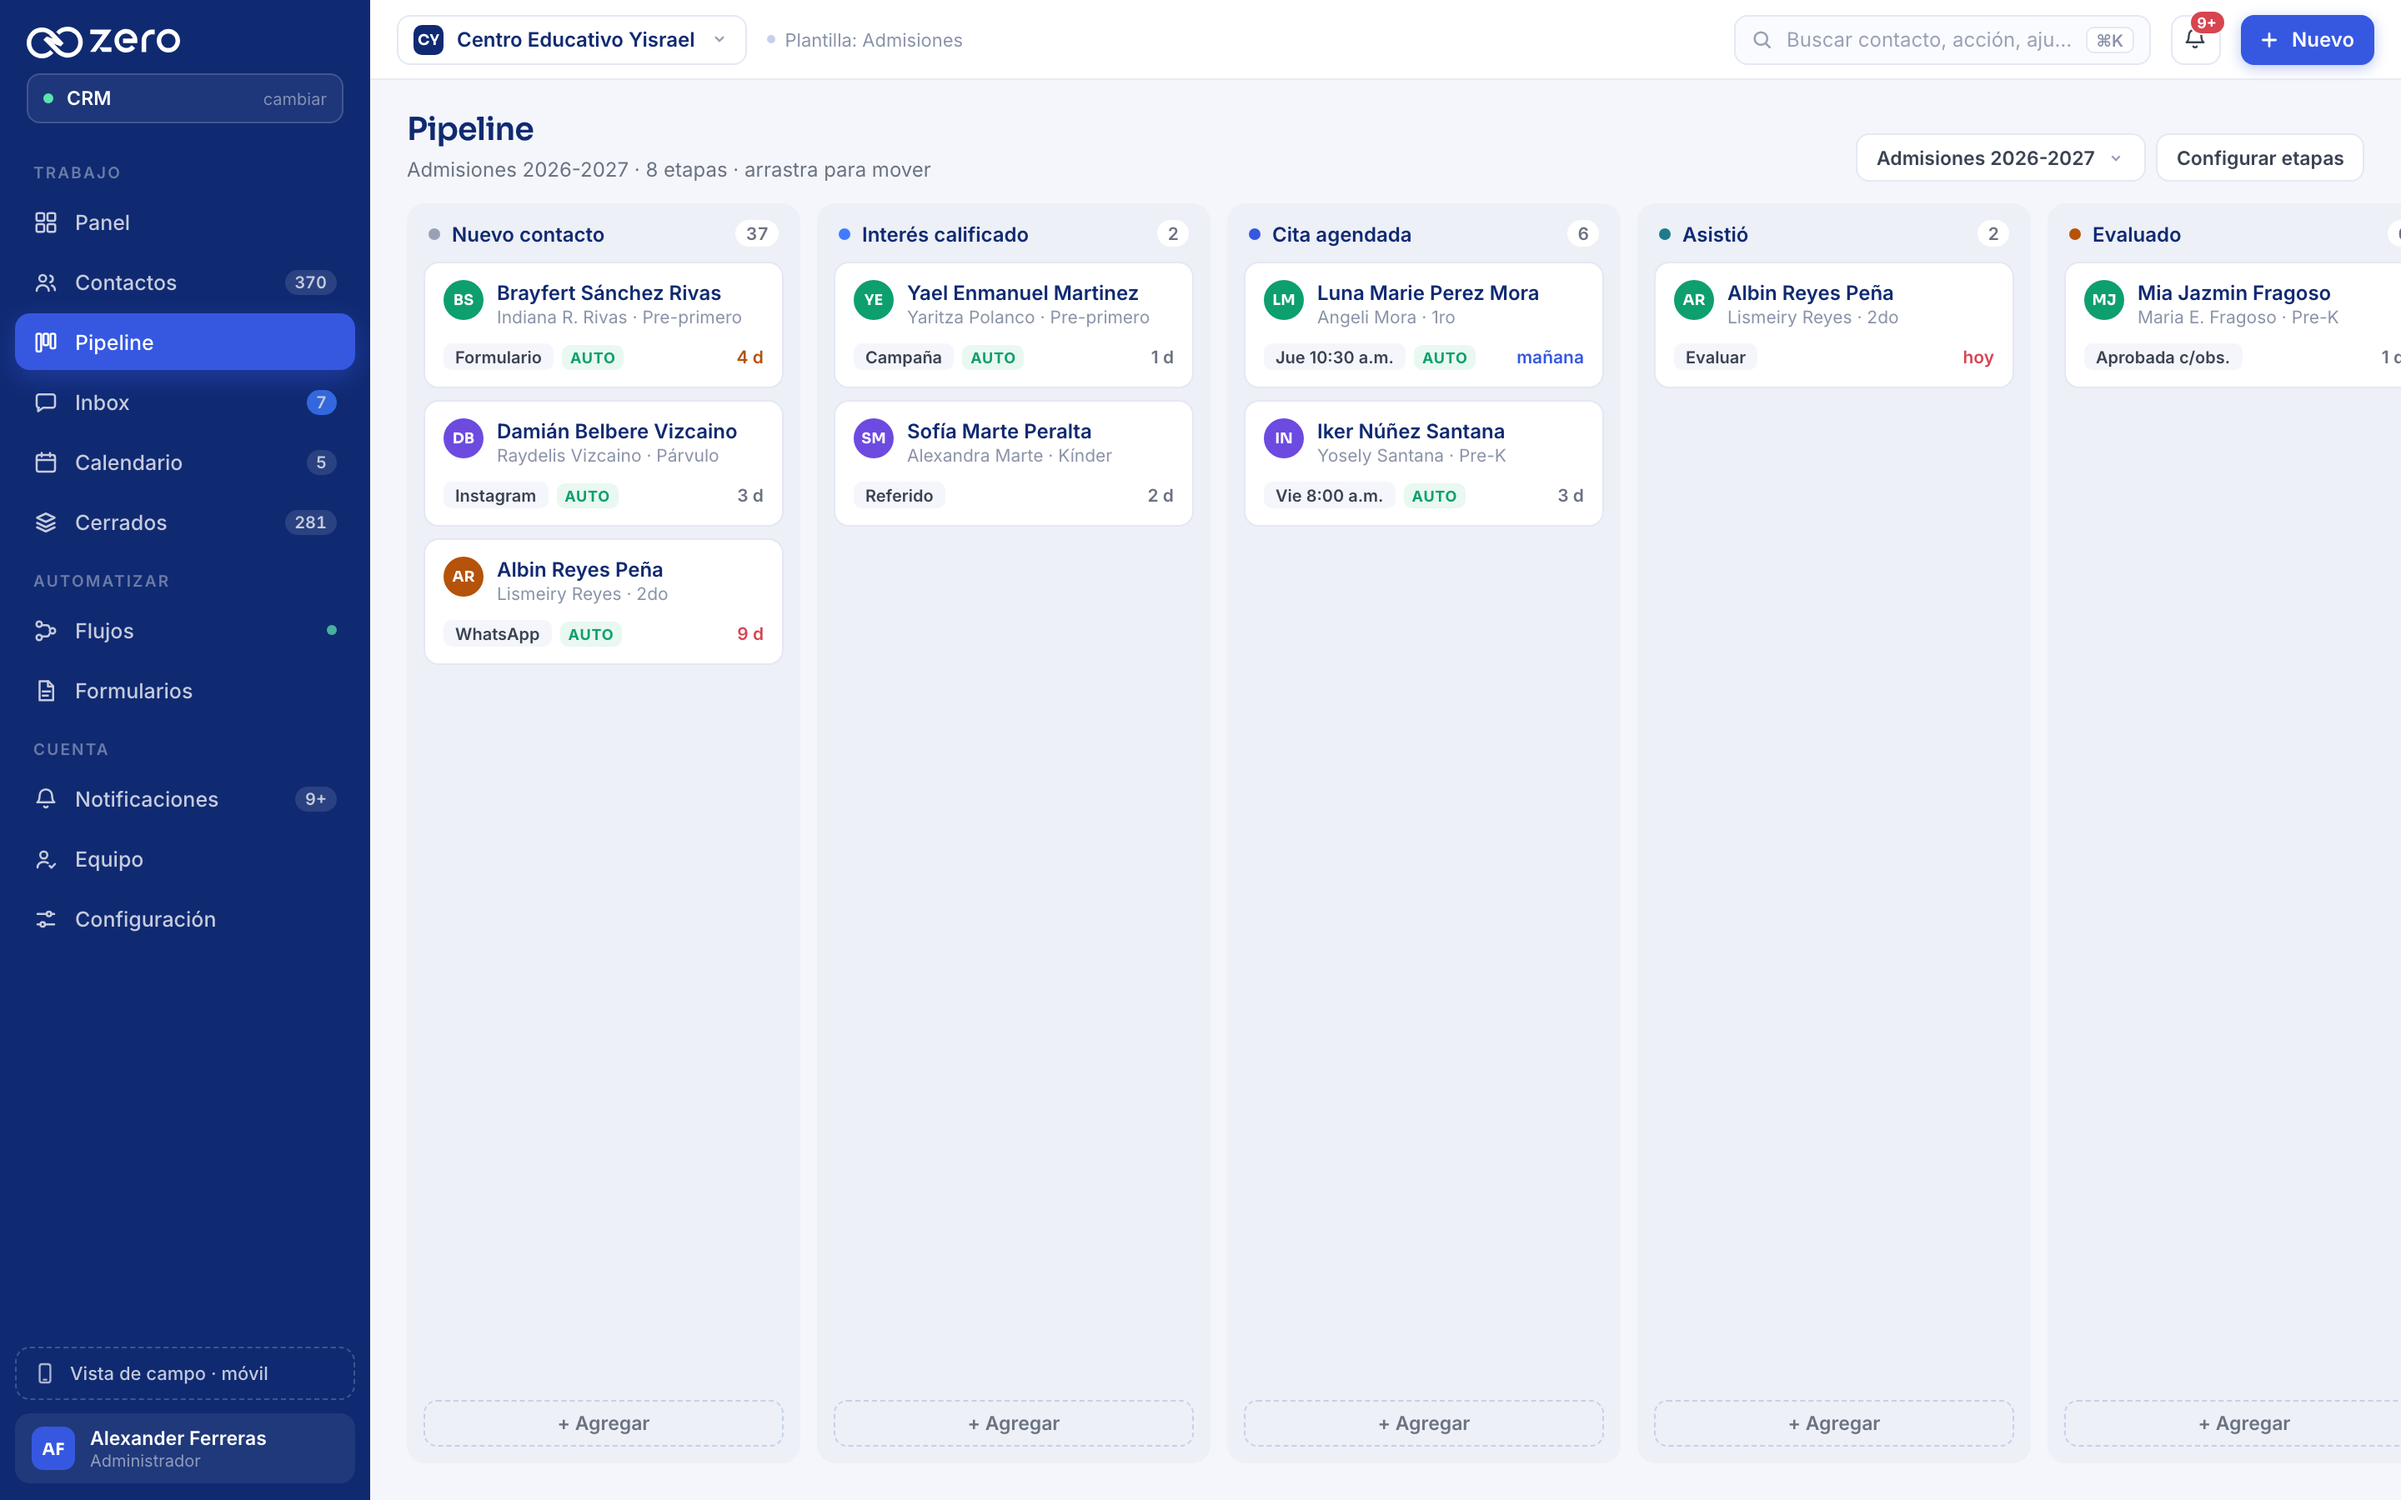
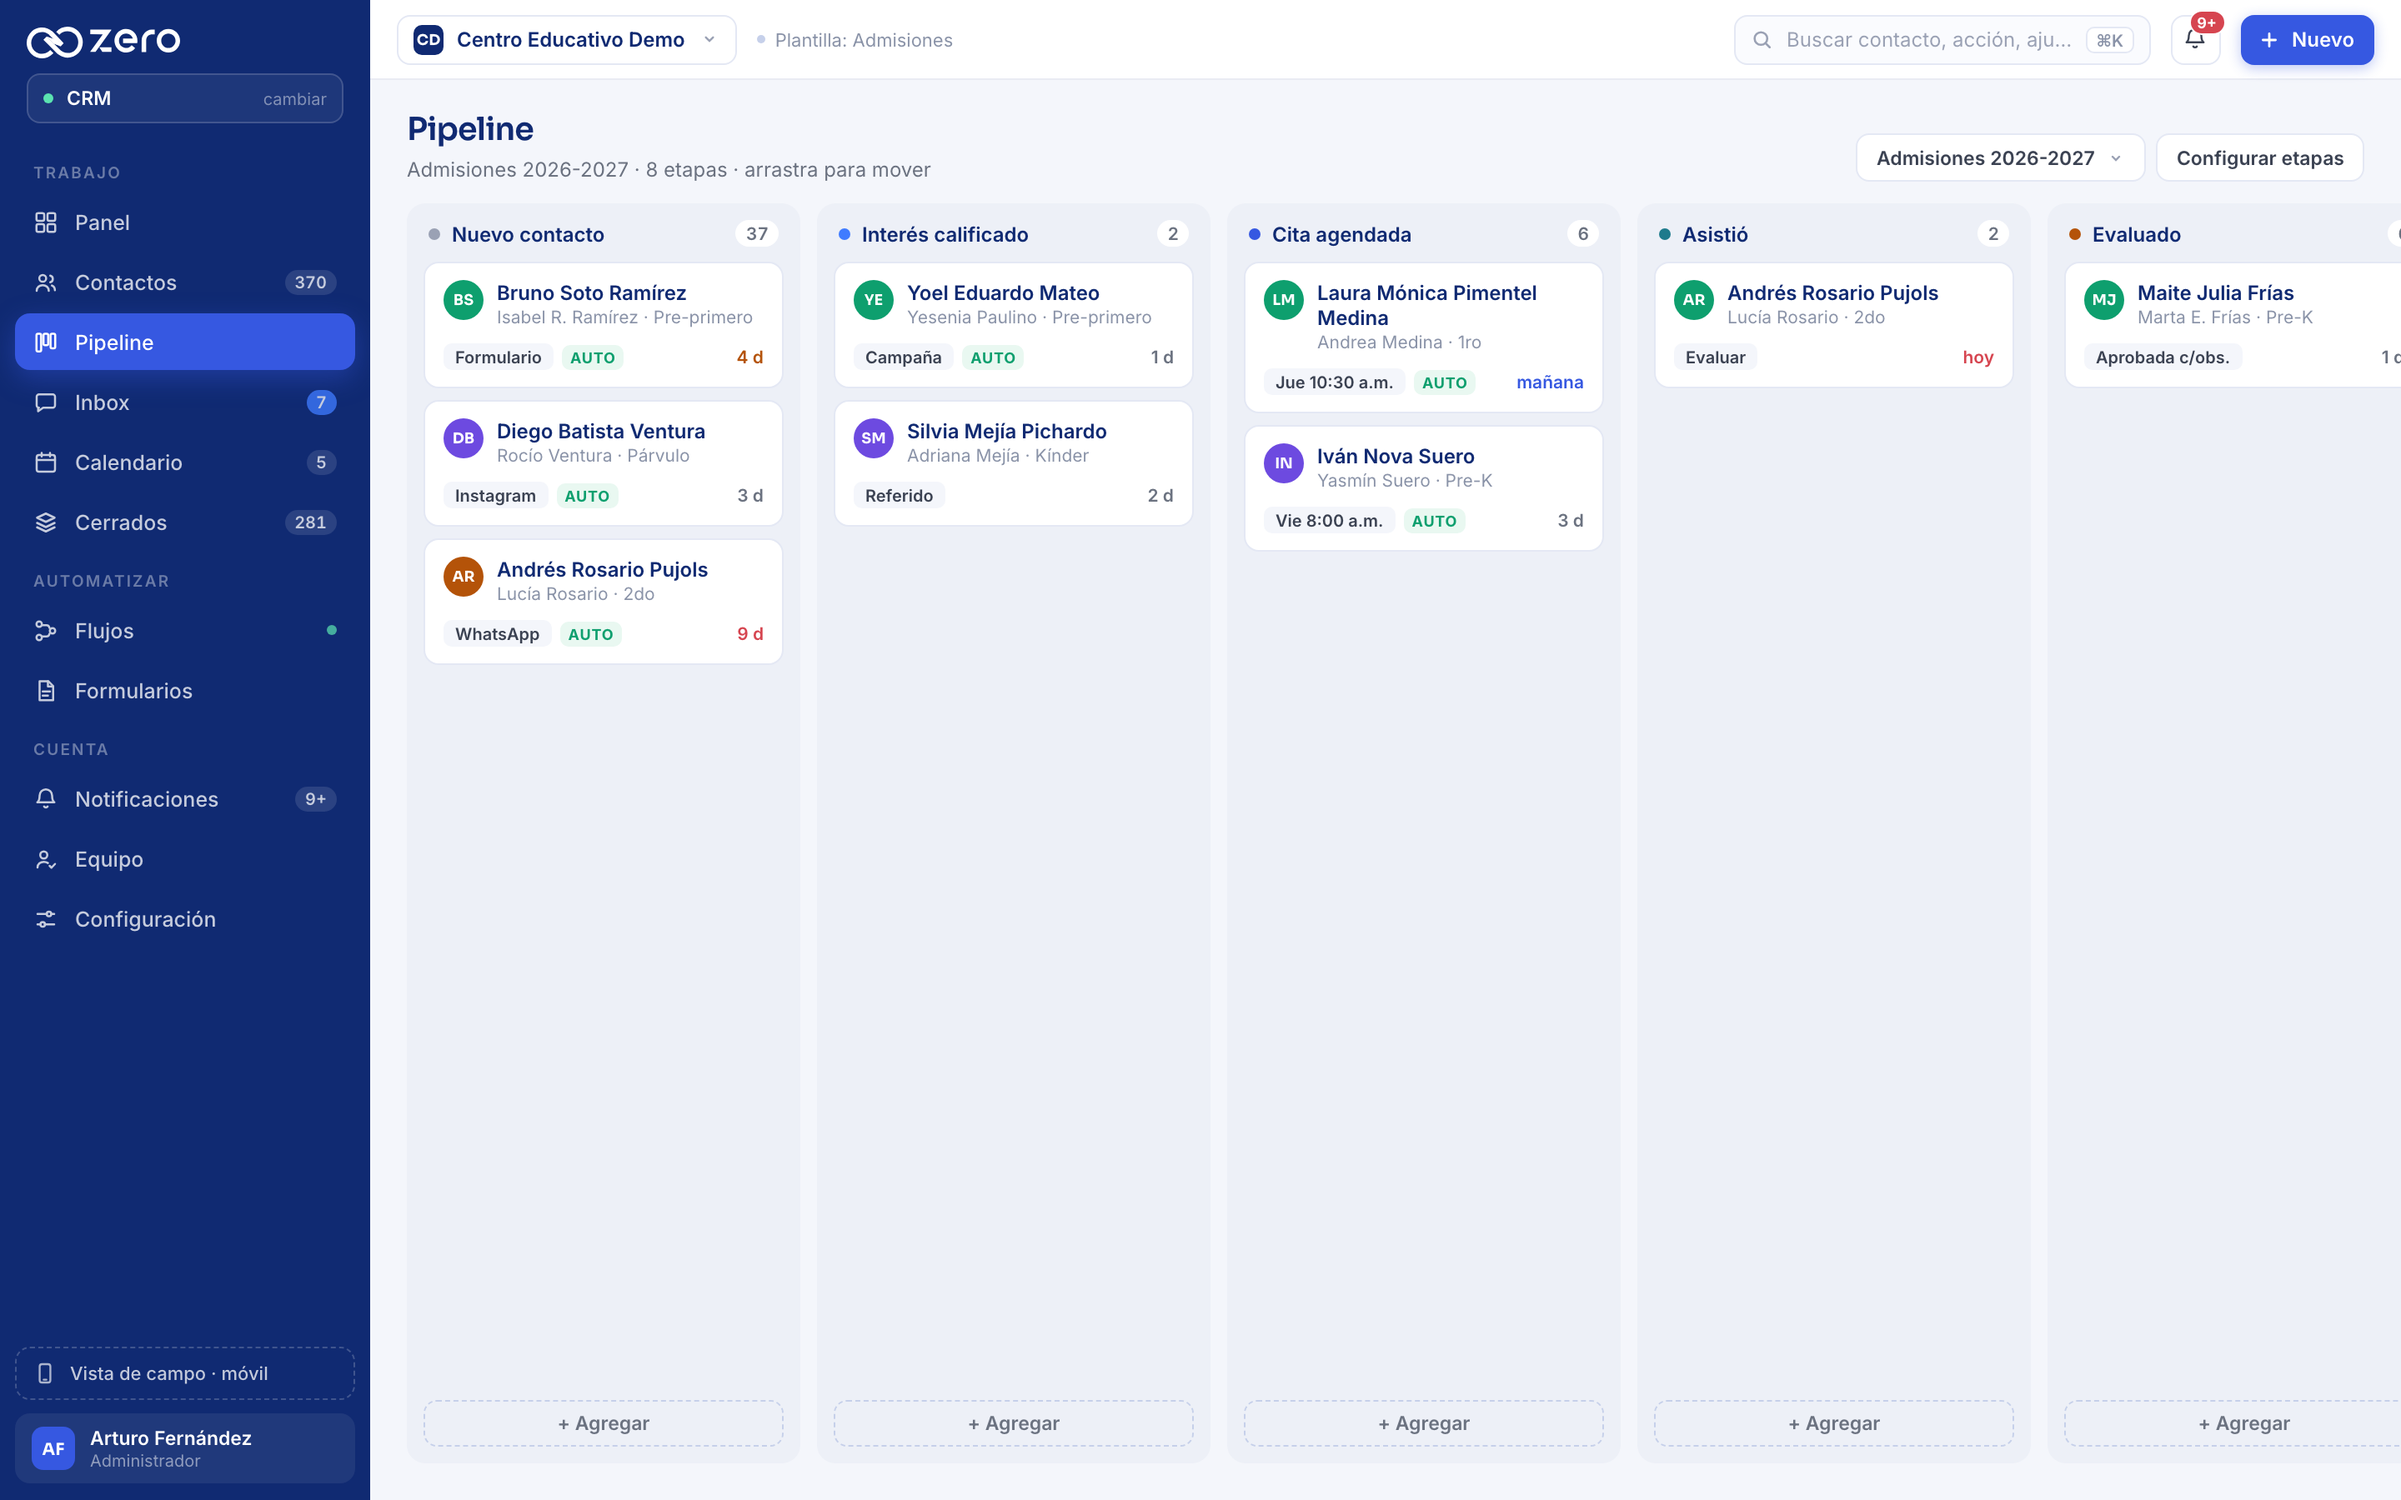
fix(web): las capturas del CRM llevaban datos de personas reales
Las seis capturas de /productos/crm salieron de una maqueta hecha con la
plantilla de admisiones de un colegio real: nombres completos de padres
con su teléfono, nombres, grados y edades de sus hijos, el nombre del
personal con sus correos, y el del administrador. Estaban publicadas.

Se rehicieron desde una copia de la maqueta con todo reemplazado:
- 35 nombres por otros inventados con las MISMAS iniciales, así los
  avatares escritos a mano en la maqueta (IR, AM, KC…) siguen cuadrando;
- los 10 teléfonos por 809-555-01xx;
- los 9 correos por @demo.test;
- el colegio por «Centro Educativo Demo».

Se revisó el texto de cada pantalla antes de guardarla. El mapa de
reemplazo no entra al repositorio: sus claves son justo los nombres
reales.

También: el demo de conversación decía «Indiana R.», el nombre de una de
esas madres, y la portada usaba zero-crm.png, el panel de esa misma
maqueta; la portada ya no la usa y el archivo se borra.

diff --git a/app/(marketing)/productos/crm/_demo.tsx b/app/(marketing)/productos/crm/_demo.tsx
@@ -36,7 +36,7 @@ const CASOS: Caso[] = [
     clave: 'inscripcion',
     pestana: 'Una inscripción',
     canal: 'WhatsApp',
-    quien: 'Indiana R.',
+    quien: 'Isabel R.',
     turnos: [
       { de: 'cliente', texto: 'Buenas, quisiera información para inscribir a mi hijo en pre-primero.' },
       { de: 'agente', texto: '¡Hola! Con gusto. Pre-primero tiene inscripción de RD$3,500 y mensualidad de RD$4,200. ¿Quiere agendar una visita al plantel?' },
@@ -151,7 +151,7 @@ export function DemoConversacion() {
           </span>
           <span className="min-w-0">
             <span className="block text-[12.5px] font-semibold text-[#102a72]">{CASOS[caso].quien}</span>
-            <span className="block text-[11px] text-[#8a90a0]">{CASOS[caso].canal}</span>
+            <span className="block text-[11px] text-[#666d80]">{CASOS[caso].canal}</span>
           </span>
           <span className="ml-auto inline-flex h-[20px] items-center gap-1.5 rounded-full bg-[#e8f6ee] px-2 text-[10px] font-semibold uppercase tracking-[.4px] text-[#1f8a56]">
             <span className="size-1.5 rounded-full bg-[#25a366]" />
@@ -167,7 +167,7 @@ export function DemoConversacion() {
               return (
                 <p
                   key={i}
-                  className="m-0 self-center text-pretty px-3 py-1 text-center text-[11px] font-medium leading-[1.45] text-[#8a90a0]"
+                  className="m-0 self-center text-pretty px-3 py-1 text-center text-[11px] font-medium leading-[1.45] text-[#666d80]"
                 >
                   ⚙ {t.texto}
                 </p>
@@ -202,7 +202,7 @@ export function DemoConversacion() {
         </div>
 
         <div className="flex items-center justify-between gap-3 border-t border-[#eef1f8] px-4 py-3">
-          <span className="text-[11px] text-[#8a90a0]">
+          <span className="text-[11px] text-[#666d80]">
             Conversación de ejemplo. El agente se arma con tus servicios y tus reglas.
           </span>
           <button
